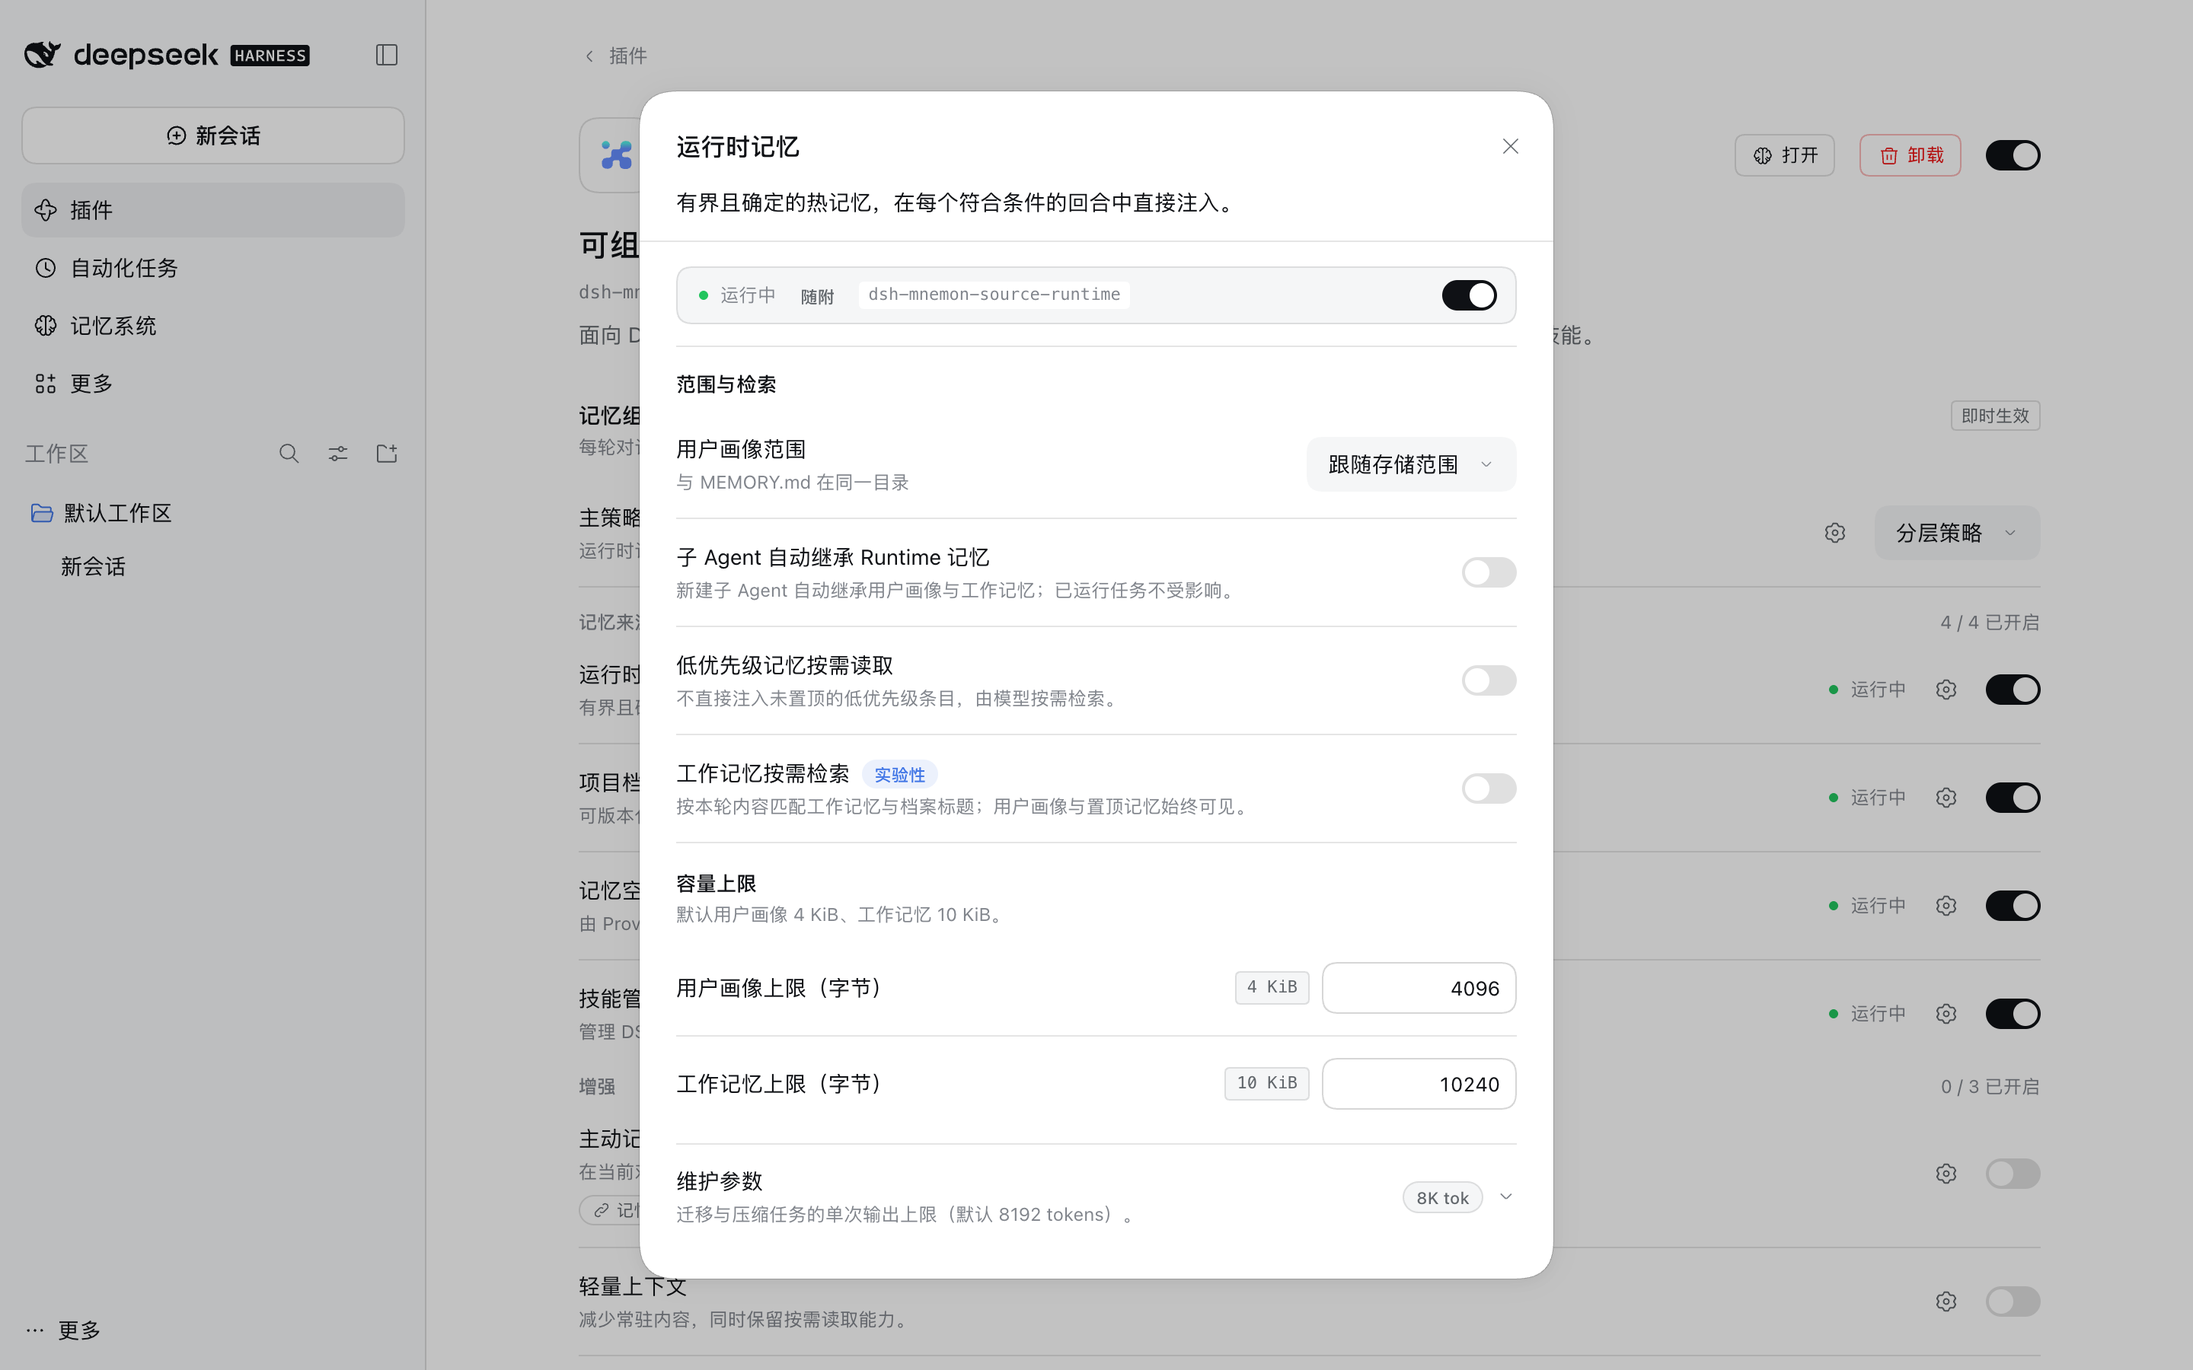
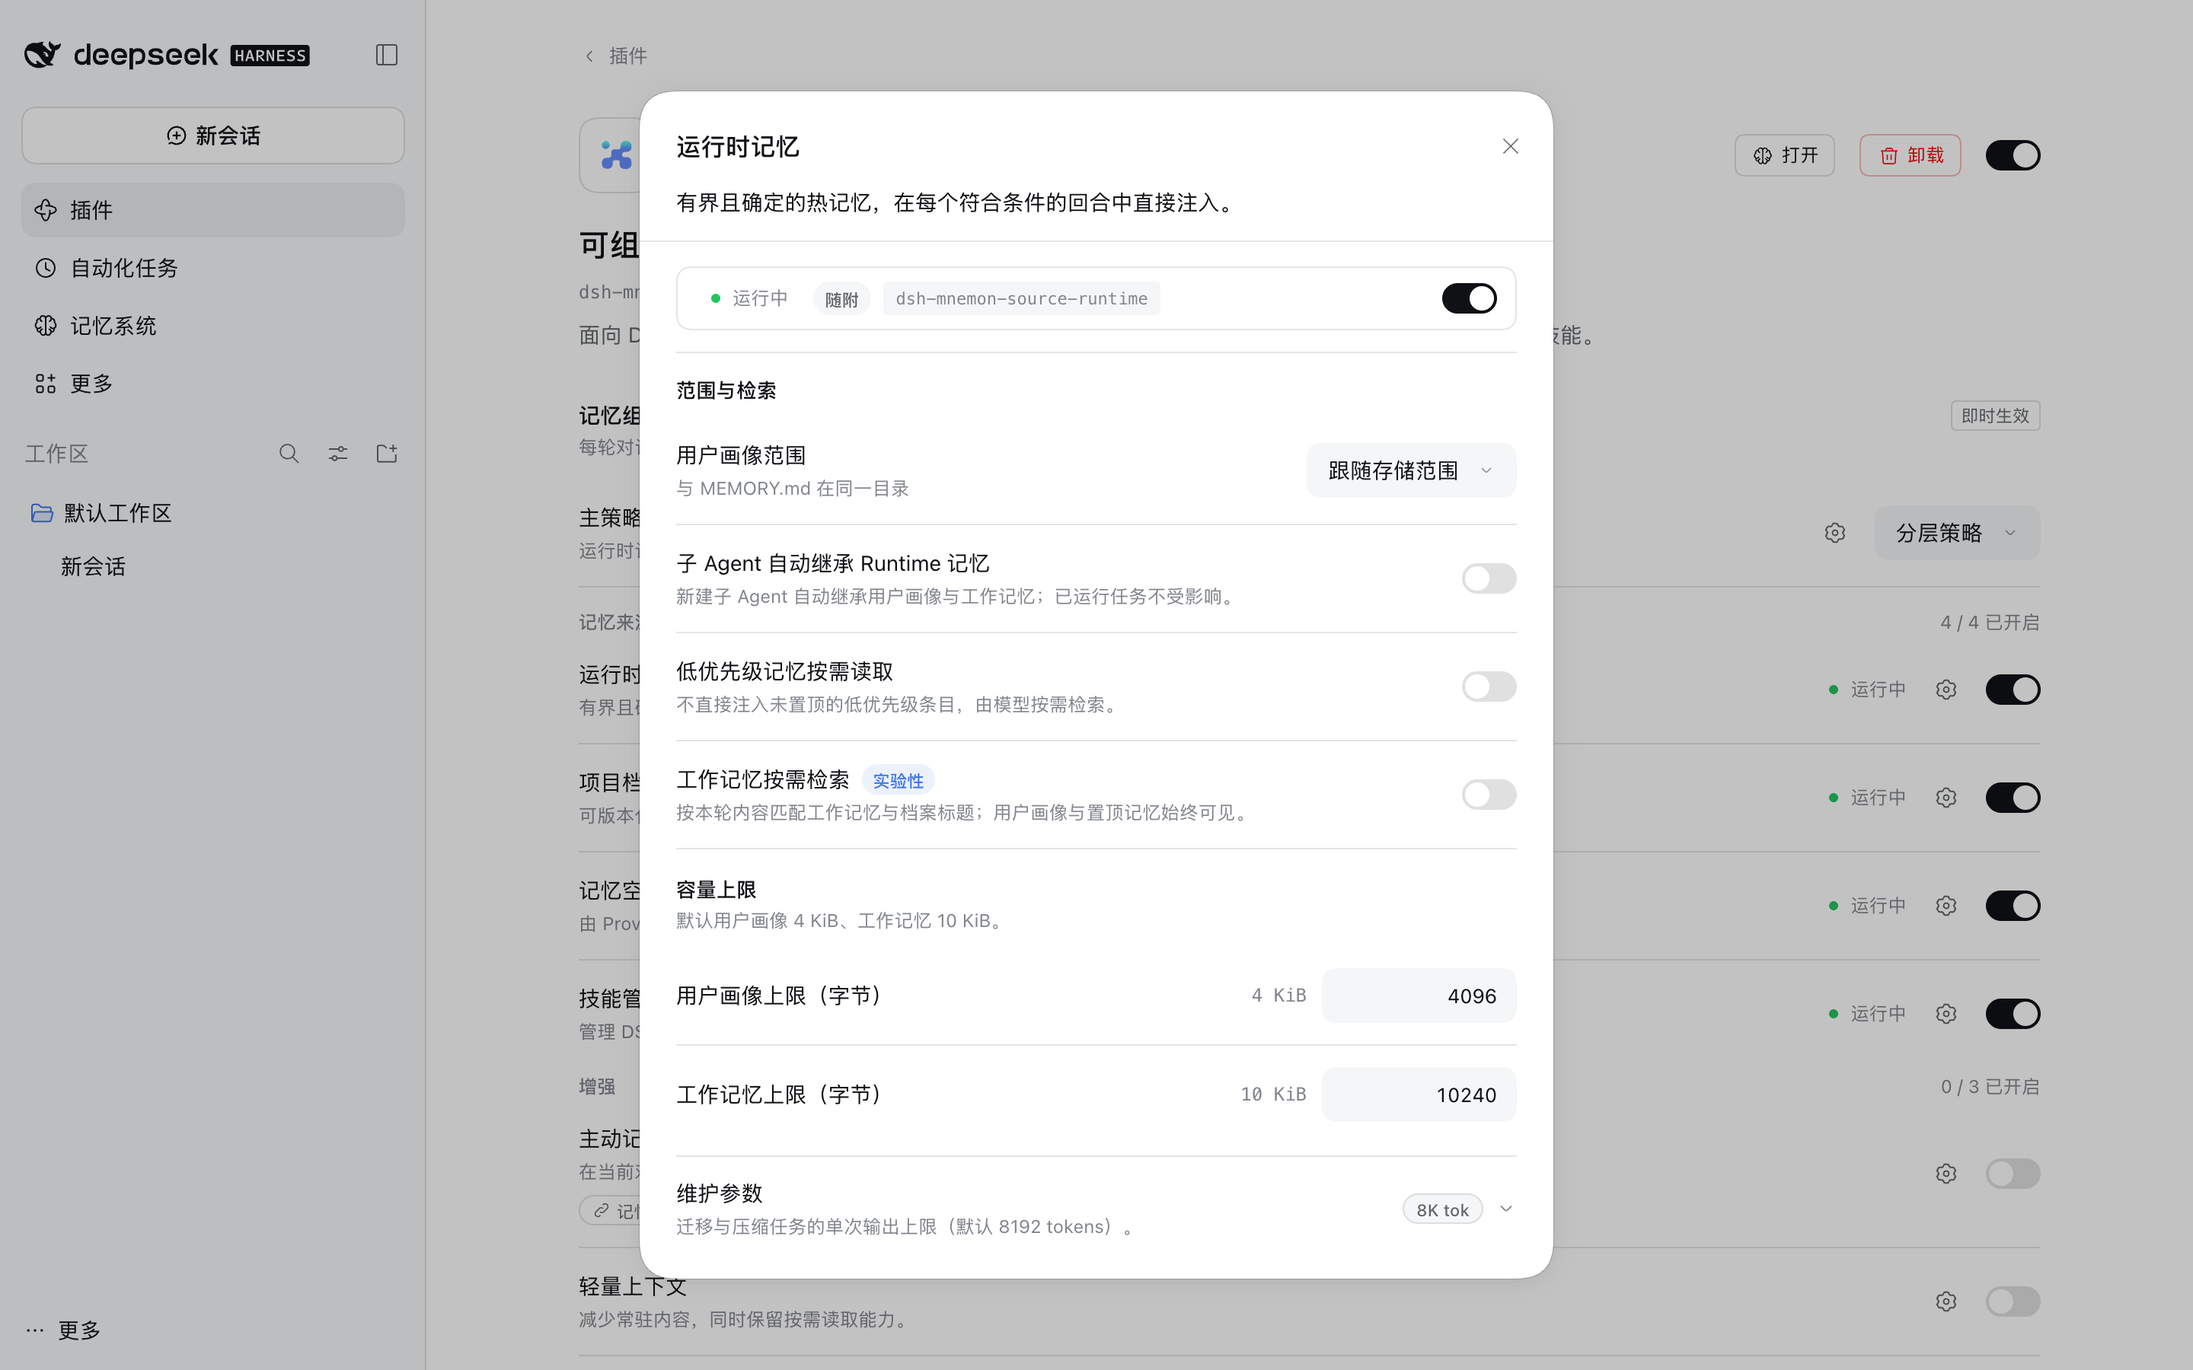
style(settings): align header strip vertically and harmonize flat DSH inputs

diff --git a/src/client/MnemonSettingsCard.module.css b/src/client/MnemonSettingsCard.module.css
@@ -75,6 +75,8 @@
 /* Title paired with an inline status or stage pill (e.g. Experimental, warning state). */
 .rowTitleLine,
 .boardRowTitle { display: flex; min-width: 0; flex-wrap: wrap; align-items: center; gap: 4px 8px; }
+.rowTitleLine [data-tone],
+.boardRowTitle [data-tone] { display: inline-flex; height: 20px; align-items: center; padding: 0 7px; line-height: 1; }
 .settingCopy code { font-family: var(--dsw-font-mono, var(--ds-font-family-code, ui-monospace, "SFMono-Regular", Menlo, Consolas, monospace)); }
 .settingControl { display: flex; min-width: 0; flex: 0 0 auto; align-items: center; justify-content: flex-end; gap: 8px; }
 .settingRow[data-stacked] .settingControl { flex: 1 1 auto; justify-content: stretch; }
@@ -106,7 +108,7 @@
 .boardIconButton:active { background: var(--dsw-alias-interactive-bg-active); }
 /* The components a row relates to, named at a glance; each opens its page. */
 .boardLinks { display: flex; min-width: 0; flex-wrap: wrap; align-items: center; gap: 4px; padding-top: 4px; }
-.boardLink { appearance: none; display: inline-flex; max-width: 100%; align-items: center; gap: 4px; border: .5px solid var(--dsw-alias-border-l3); border-radius: 999px; corner-shape: round; padding: 0 8px; color: var(--dsw-alias-label-tertiary); background: transparent; font: inherit; font-size: 11px; line-height: 18px; white-space: nowrap; cursor: pointer; transition: color 120ms ease, border-color 120ms ease, background-color 120ms ease; }
+.boardLink { appearance: none; display: inline-flex; height: 20px; max-width: 100%; align-items: center; gap: 4px; border: .5px solid var(--dsw-alias-border-l3); border-radius: 999px; corner-shape: round; padding: 0 8px; color: var(--dsw-alias-label-tertiary); background: transparent; font: inherit; font-size: 11px; line-height: 1; white-space: nowrap; cursor: pointer; transition: color 120ms ease, border-color 120ms ease, background-color 120ms ease; }
 .boardLink[data-on] { color: var(--dsw-alias-label-secondary); }
 .boardLink:hover { border-color: var(--dsw-alias-border-l4); color: var(--dsw-alias-label-primary); }
 .boardLink > svg { flex: none; }
@@ -129,44 +131,52 @@
   gap: 6px;
   border: .5px solid var(--dsw-alias-border-l2);
   border-radius: var(--dsw-radius-md);
-  padding: 8px 12px;
-  background: var(--dsw-alias-bg-module-platform);
+  padding: 9px 12px;
+  background: transparent;
 }
 .detailsHeadLine { display: flex; min-width: 0; flex-wrap: wrap; align-items: center; gap: 6px 8px; }
+.detailsHeadLine .boardState { height: 22px; line-height: 1; }
+.detailsHeadLine .boardState > span { display: inline-flex; align-items: center; line-height: 1; }
+.detailsHeadLine [data-tone] { display: inline-flex; height: 22px; align-items: center; padding: 0 8px; line-height: 1; }
 .detailsPackage {
+  display: inline-flex;
   min-width: 0;
+  max-width: 100%;
+  height: 22px;
+  align-items: center;
   overflow: hidden;
   border-radius: var(--dsw-radius-xs);
-  padding: 1px 6px;
+  padding: 0 8px;
   color: var(--dsw-alias-label-tertiary);
-  background: var(--dsw-alias-bg-layer-1);
+  background: var(--dsw-alias-bg-module-platform);
   font-family: var(--dsw-font-mono, var(--ds-font-family-code, ui-monospace, "SFMono-Regular", Menlo, Consolas, monospace));
   font-size: 11px;
-  line-height: 16px;
+  line-height: 1;
   text-overflow: ellipsis;
   white-space: nowrap;
 }
-.detailsControl { display: flex; align-items: center; margin-left: auto; }
+.detailsControl { display: inline-flex; min-height: 22px; align-items: center; margin-left: auto; }
 .detailsSection { display: flex; min-width: 0; flex-direction: column; gap: 8px; border-top: .5px solid var(--dsw-alias-border-l2); padding-top: 12px; }
 .detailsSection > h3 { margin: 0; color: var(--dsw-alias-label-tertiary); font-size: 12px; font-weight: 500; line-height: 18px; }
 .detailsRelations { display: grid; min-width: 0; grid-template-columns: max-content minmax(0, 1fr); align-items: center; gap: 6px 14px; margin: 0; font-size: 13px; line-height: 20px; }
 .detailsRelations > div { display: contents; }
 .detailsRelations dt { color: var(--dsw-alias-label-tertiary); font-size: 12px; }
-.detailsRelations dd { display: flex; min-width: 0; flex-wrap: wrap; gap: 6px; margin: 0; color: var(--dsw-alias-label-primary); }
+.detailsRelations dd { display: flex; min-width: 0; flex-wrap: wrap; align-items: center; gap: 6px; margin: 0; color: var(--dsw-alias-label-primary); }
 .detailsName {
   appearance: none;
   display: inline-flex;
+  height: 24px;
   align-items: center;
   gap: 6px;
   border: .5px solid var(--dsw-alias-border-l2);
   border-radius: 999px;
   corner-shape: round;
-  padding: 1px 9px;
+  padding: 0 10px;
   color: var(--dsw-alias-label-secondary);
   background: var(--dsw-alias-bg-layer-1);
   font: inherit;
   font-size: 12px;
-  line-height: 20px;
+  line-height: 1;
   cursor: pointer;
   transition: border-color 120ms ease, color 120ms ease, background-color 120ms ease;
 }
@@ -236,6 +246,7 @@
 /* The row's state then its control, kept together on desktop and stacked only when narrow. */
 .boardControl { display: flex; min-width: 0; flex: 0 0 auto; flex-wrap: nowrap; align-items: center; justify-content: flex-end; gap: 6px 12px; margin-left: auto; }
 .boardState { display: inline-flex; min-width: 0; align-items: center; gap: 6px; color: var(--dsw-alias-label-tertiary); font-size: 12px; line-height: 18px; white-space: nowrap; }
+.boardState > span { display: inline-flex; align-items: center; line-height: 1; }
 .boardState[data-tone='warning'],
 .boardState[data-tone='error'] { color: var(--dsw-alias-label-secondary); }
 .boardValue { color: var(--dsw-alias-label-secondary); font-size: 13px; line-height: 20px; }
@@ -320,19 +331,21 @@
 
 .numberInput,
 .compactTextInput {
-  height: 34px;
+  height: 36px;
   box-sizing: border-box;
-  border: .5px solid var(--dsw-alias-border-l4);
+  border: .5px solid transparent;
   border-radius: var(--dsw-radius-md);
   outline: none;
-  padding: 0 10px;
+  padding: 0 12px;
   color: var(--dsw-alias-label-primary);
-  background: var(--dsw-alias-bg-layer-3);
+  background: var(--dsw-alias-bg-module-platform);
   font: inherit;
   font-size: 13px;
   line-height: 20px;
-  transition: border-color 120ms ease;
+  transition: border-color 120ms ease, background-color 120ms ease;
 }
+.numberInput:hover:not(:disabled):not(:focus-visible),
+.compactTextInput:hover:not(:disabled):not(:focus-visible) { background: var(--dsw-alias-interactive-bg-hover); }
 .numberInput {
   width: 128px;
   text-align: right;
@@ -343,55 +356,53 @@
 .numberInput::-webkit-outer-spin-button { -webkit-appearance: none; margin: 0; }
 .compactTextInput {
   width: 168px;
-  padding: 0 12px;
   font-family: var(--dsw-font-mono, var(--ds-font-family-code, ui-monospace, "SFMono-Regular", Menlo, Consolas, monospace));
   font-size: 12px;
   text-align: left;
 }
 .alignedNumberInput {
   width: 168px;
-  padding: 0 12px;
   text-align: left;
 }
 .compactTextInput::placeholder { color: var(--dsw-alias-label-dimmed); font-family: var(--dsw-font-family); font-size: 12px; }
 .numberInput:focus-visible,
-.compactTextInput:focus-visible { border-color: var(--dsw-alias-state-business-primary); }
+.compactTextInput:focus-visible { border-color: var(--dsw-alias-state-business-primary); background: var(--dsw-alias-bg-base); }
 .numberInput[aria-invalid='true'],
-.compactTextInput[aria-invalid='true'] { border-color: var(--dsw-alias-state-error-primary); }
+.compactTextInput[aria-invalid='true'] { border-color: var(--dsw-alias-state-error-primary); background: var(--dsw-alias-bg-base); }
 .numberInput:disabled,
-.compactTextInput:disabled { cursor: default; opacity: .5; }
+.compactTextInput:disabled { cursor: default; opacity: .45; }
 
-/* Subtle inline equivalent pill (e.g. 4 KiB beside 4096) and composite unit input box. */
+/* Subtle inline equivalent (e.g. 4 KiB beside 4096) and composite unit input box. */
 .inputEquiv {
+  display: inline-flex;
   flex: none;
-  border: .5px solid var(--dsw-alias-border-l2);
-  border-radius: var(--dsw-radius-xs);
-  padding: 2px 7px;
-  color: var(--dsw-alias-label-secondary);
-  background: var(--dsw-alias-bg-module-platform);
+  align-items: center;
+  padding: 0 2px;
+  color: var(--dsw-alias-label-tertiary);
   font-family: var(--dsw-font-mono, var(--ds-font-family-code, ui-monospace, "SFMono-Regular", Menlo, Consolas, monospace));
-  font-size: 11px;
-  font-weight: 500;
-  line-height: 16px;
+  font-size: 12px;
+  font-weight: 400;
+  line-height: 1;
   font-variant-numeric: tabular-nums;
   white-space: nowrap;
 }
 .unitInput {
   display: inline-flex;
   width: 128px;
-  height: 34px;
+  height: 36px;
   box-sizing: border-box;
   align-items: center;
   gap: 6px;
-  border: .5px solid var(--dsw-alias-border-l4);
+  border: .5px solid transparent;
   border-radius: var(--dsw-radius-md);
-  padding: 0 10px;
-  background: var(--dsw-alias-bg-layer-3);
-  transition: border-color 120ms ease;
+  padding: 0 12px;
+  background: var(--dsw-alias-bg-module-platform);
+  transition: border-color 120ms ease, background-color 120ms ease;
 }
-.unitInput:focus-within { border-color: var(--dsw-alias-state-business-primary); }
-.unitInput:has(> input[aria-invalid='true']) { border-color: var(--dsw-alias-state-error-primary); }
-.unitInput:has(> input:disabled) { opacity: .5; }
+.unitInput:hover:not(:has(> input:disabled)):not(:focus-within) { background: var(--dsw-alias-interactive-bg-hover); }
+.unitInput:focus-within { border-color: var(--dsw-alias-state-business-primary); background: var(--dsw-alias-bg-base); }
+.unitInput:has(> input[aria-invalid='true']) { border-color: var(--dsw-alias-state-error-primary); background: var(--dsw-alias-bg-base); }
+.unitInput:has(> input:disabled) { opacity: .45; }
 .unitInput > input {
   width: 100%;
   min-width: 0;
@@ -411,11 +422,13 @@
 .unitInput > input::-webkit-inner-spin-button,
 .unitInput > input::-webkit-outer-spin-button { -webkit-appearance: none; margin: 0; }
 .unitSuffix {
+  display: inline-flex;
   flex: none;
+  align-items: center;
   color: var(--dsw-alias-label-tertiary);
   font-family: var(--dsw-font-mono, var(--ds-font-family-code, ui-monospace, "SFMono-Regular", Menlo, Consolas, monospace));
   font-size: 11px;
-  line-height: 16px;
+  line-height: 1;
   user-select: none;
   pointer-events: none;
 }
@@ -438,8 +451,8 @@
 .rowDetail { display: flex; min-width: 0; flex-direction: column; gap: 10px; padding: 0 0 14px; border-bottom: .5px solid var(--dsw-alias-border-l2); }
 .settingRow:has(+ .rowDetail) { padding-bottom: 10px; border-bottom: 0; }
 .effectiveRoute { display: flex; min-width: 0; align-items: center; justify-content: space-between; gap: 12px; color: var(--dsw-alias-label-tertiary); font-size: 12px; line-height: 18px; }
-.effectiveRoute code { min-width: 0; overflow: hidden; border: .5px solid var(--dsw-alias-border-l3); border-radius: var(--dsw-radius-xs); padding: 1px 6px; color: var(--dsw-alias-label-secondary); font-family: var(--dsw-font-mono, var(--ds-font-family-code, ui-monospace, "SFMono-Regular", Menlo, Consolas, monospace)); font-size: 11px; line-height: 16px; text-overflow: ellipsis; white-space: nowrap; }
-.effectiveRoute small { min-width: 0; overflow: hidden; font-size: 12px; text-overflow: ellipsis; white-space: nowrap; }
+.effectiveRoute code { display: inline-flex; height: 20px; min-width: 0; align-items: center; overflow: hidden; border: .5px solid var(--dsw-alias-border-l3); border-radius: var(--dsw-radius-xs); padding: 0 7px; color: var(--dsw-alias-label-secondary); font-family: var(--dsw-font-mono, var(--ds-font-family-code, ui-monospace, "SFMono-Regular", Menlo, Consolas, monospace)); font-size: 11px; line-height: 1; text-overflow: ellipsis; white-space: nowrap; }
+.effectiveRoute small { min-width: 0; overflow: hidden; font-size: 12px; line-height: 18px; text-overflow: ellipsis; white-space: nowrap; }
 /* The route and where it comes from read as one value. */
 .routeValue { display: inline-flex; min-width: 0; align-items: center; gap: 8px; }
 .warning { margin: 0; color: var(--dsw-alias-label-secondary); font-size: 12px; line-height: 18px; overflow-wrap: anywhere; }
@@ -480,7 +493,7 @@
 .advancedTitle { color: var(--dsw-alias-label-primary); font-size: 14px; font-weight: 400; line-height: 22px; }
 .advancedHint { color: var(--dsw-alias-label-tertiary); font-size: 12px; font-weight: 400; line-height: 18px; overflow-wrap: anywhere; }
 .advancedMeta { display: inline-flex; flex: 0 0 auto; align-items: center; gap: 8px; color: var(--dsw-alias-label-tertiary); }
-.advancedBadge { border: .5px solid var(--dsw-alias-border-l2); padding: 1px 8px; border-radius: 999px; corner-shape: round; color: var(--dsw-alias-label-secondary); background: var(--dsw-alias-bg-module-platform); font-size: 11px; font-weight: 500; line-height: 17px; font-variant-numeric: tabular-nums; white-space: nowrap; }
+.advancedBadge { display: inline-flex; height: 20px; align-items: center; border: .5px solid var(--dsw-alias-border-l2); padding: 0 8px; border-radius: 999px; corner-shape: round; color: var(--dsw-alias-label-secondary); background: var(--dsw-alias-bg-module-platform); font-size: 11px; font-weight: 500; line-height: 1; font-variant-numeric: tabular-nums; white-space: nowrap; }
 .advancedMeta > svg { flex: none; transition: transform .16s cubic-bezier(.22, 1, .36, 1); }
 .advanced[data-open] > .advancedToggle .advancedMeta > svg { transform: rotate(180deg); }
 .advancedBody { min-width: 0; }
@@ -491,30 +504,21 @@
 .advancedContent > .rows > .toggleRow:last-child { padding-bottom: 6px; border-bottom: 0; }
 @keyframes advanced-expand { from { opacity: 0; transform: translateY(-4px); } to { opacity: 1; transform: translateY(0); } }
 
-/* Conditional subgroup revealed beneath an enabling switch (for example self-evolution or idle review). */
+/* Conditional subgroup revealed flush beneath an enabling switch (matches native DSH flat rows). */
 .evolutionGroup {
   display: flex;
   min-width: 0;
   flex-direction: column;
-  margin: 2px 0 4px;
-  padding-left: 12px;
-  border-left: 1px solid var(--dsw-alias-border-l2);
-  animation: advanced-expand 180ms cubic-bezier(.22, 1, .36, 1) both;
+  animation: advanced-expand 160ms cubic-bezier(.22, 1, .36, 1) both;
 }
-.toggleRow:has(+ .evolutionGroup) { border-bottom: 0; padding-bottom: 8px; }
-.evolutionGroup > :first-child { padding-top: 8px; }
 .evolutionGroup > :last-child { border-bottom: 0; }
 
-/* Flush dependent controls under a toggle (e.g. daily auto-adopt quota) — no second nested rail. */
+/* Flush dependent controls under a toggle (e.g. daily auto-adopt quota). */
 .nestedBudgetGroup {
   display: flex;
   min-width: 0;
   flex-direction: column;
-  transition: opacity 160ms ease;
 }
-.nestedBudgetGroup[data-dimmed] { opacity: .62; }
-.nestedBudgetGroup[data-dimmed]:hover,
-.nestedBudgetGroup[data-dimmed]:focus-within { opacity: 1; }
 .nestedBudgetGroup > .settingRow:has(+ .panelActions) { border-bottom: 0; padding-bottom: 4px; }
 .nestedBudgetGroup > .panelActions { padding: 8px 0 12px; border-bottom: .5px solid var(--dsw-alias-border-l2); }
 

diff --git a/src/client/skills-settings.tsx b/src/client/skills-settings.tsx
@@ -550,7 +550,7 @@ export function SkillsSettings(props: {
         <ToggleRow id="mnemon-skills-update" label={t('skills.allowUpdate')} hint={t('skills.allowUpdateHint')} checked={allowUpdate.value} disabled={disabled} onChange={allowUpdate.set} />
         <ToggleRow id="mnemon-skills-backtest" label={t('skills.autoBacktest')} hint={t('skills.autoBacktestHint')} checked={autoBacktest.value} disabled={disabled} onChange={autoBacktest.set} />
         <ToggleRow id="mnemon-skills-auto-adopt" label={t('skills.autoAdopt')} hint={t('skills.autoAdoptHint')} checked={autoAdopt.value} disabled={disabled || !autoBacktest.value} onChange={autoAdopt.set} />
-        <div className={css.nestedBudgetGroup} data-dimmed={!autoAdopt.value ? '' : undefined}>
+        <div className={css.nestedBudgetGroup}>
           <SettingRow htmlFor={`${baseId}-adopt-limit`} title={t('skills.autoAdoptDailyLimit')} hint={t('skills.autoBudgetHint')}>
             <input id={`${baseId}-adopt-limit`} className={`${css.numberInput} ${css.alignedNumberInput}`} type="number" min={0} max={100} step={1} inputMode="numeric"
               value={adoptionBudget.draft.limit} disabled={disabled || adoptionBudget.saving}
